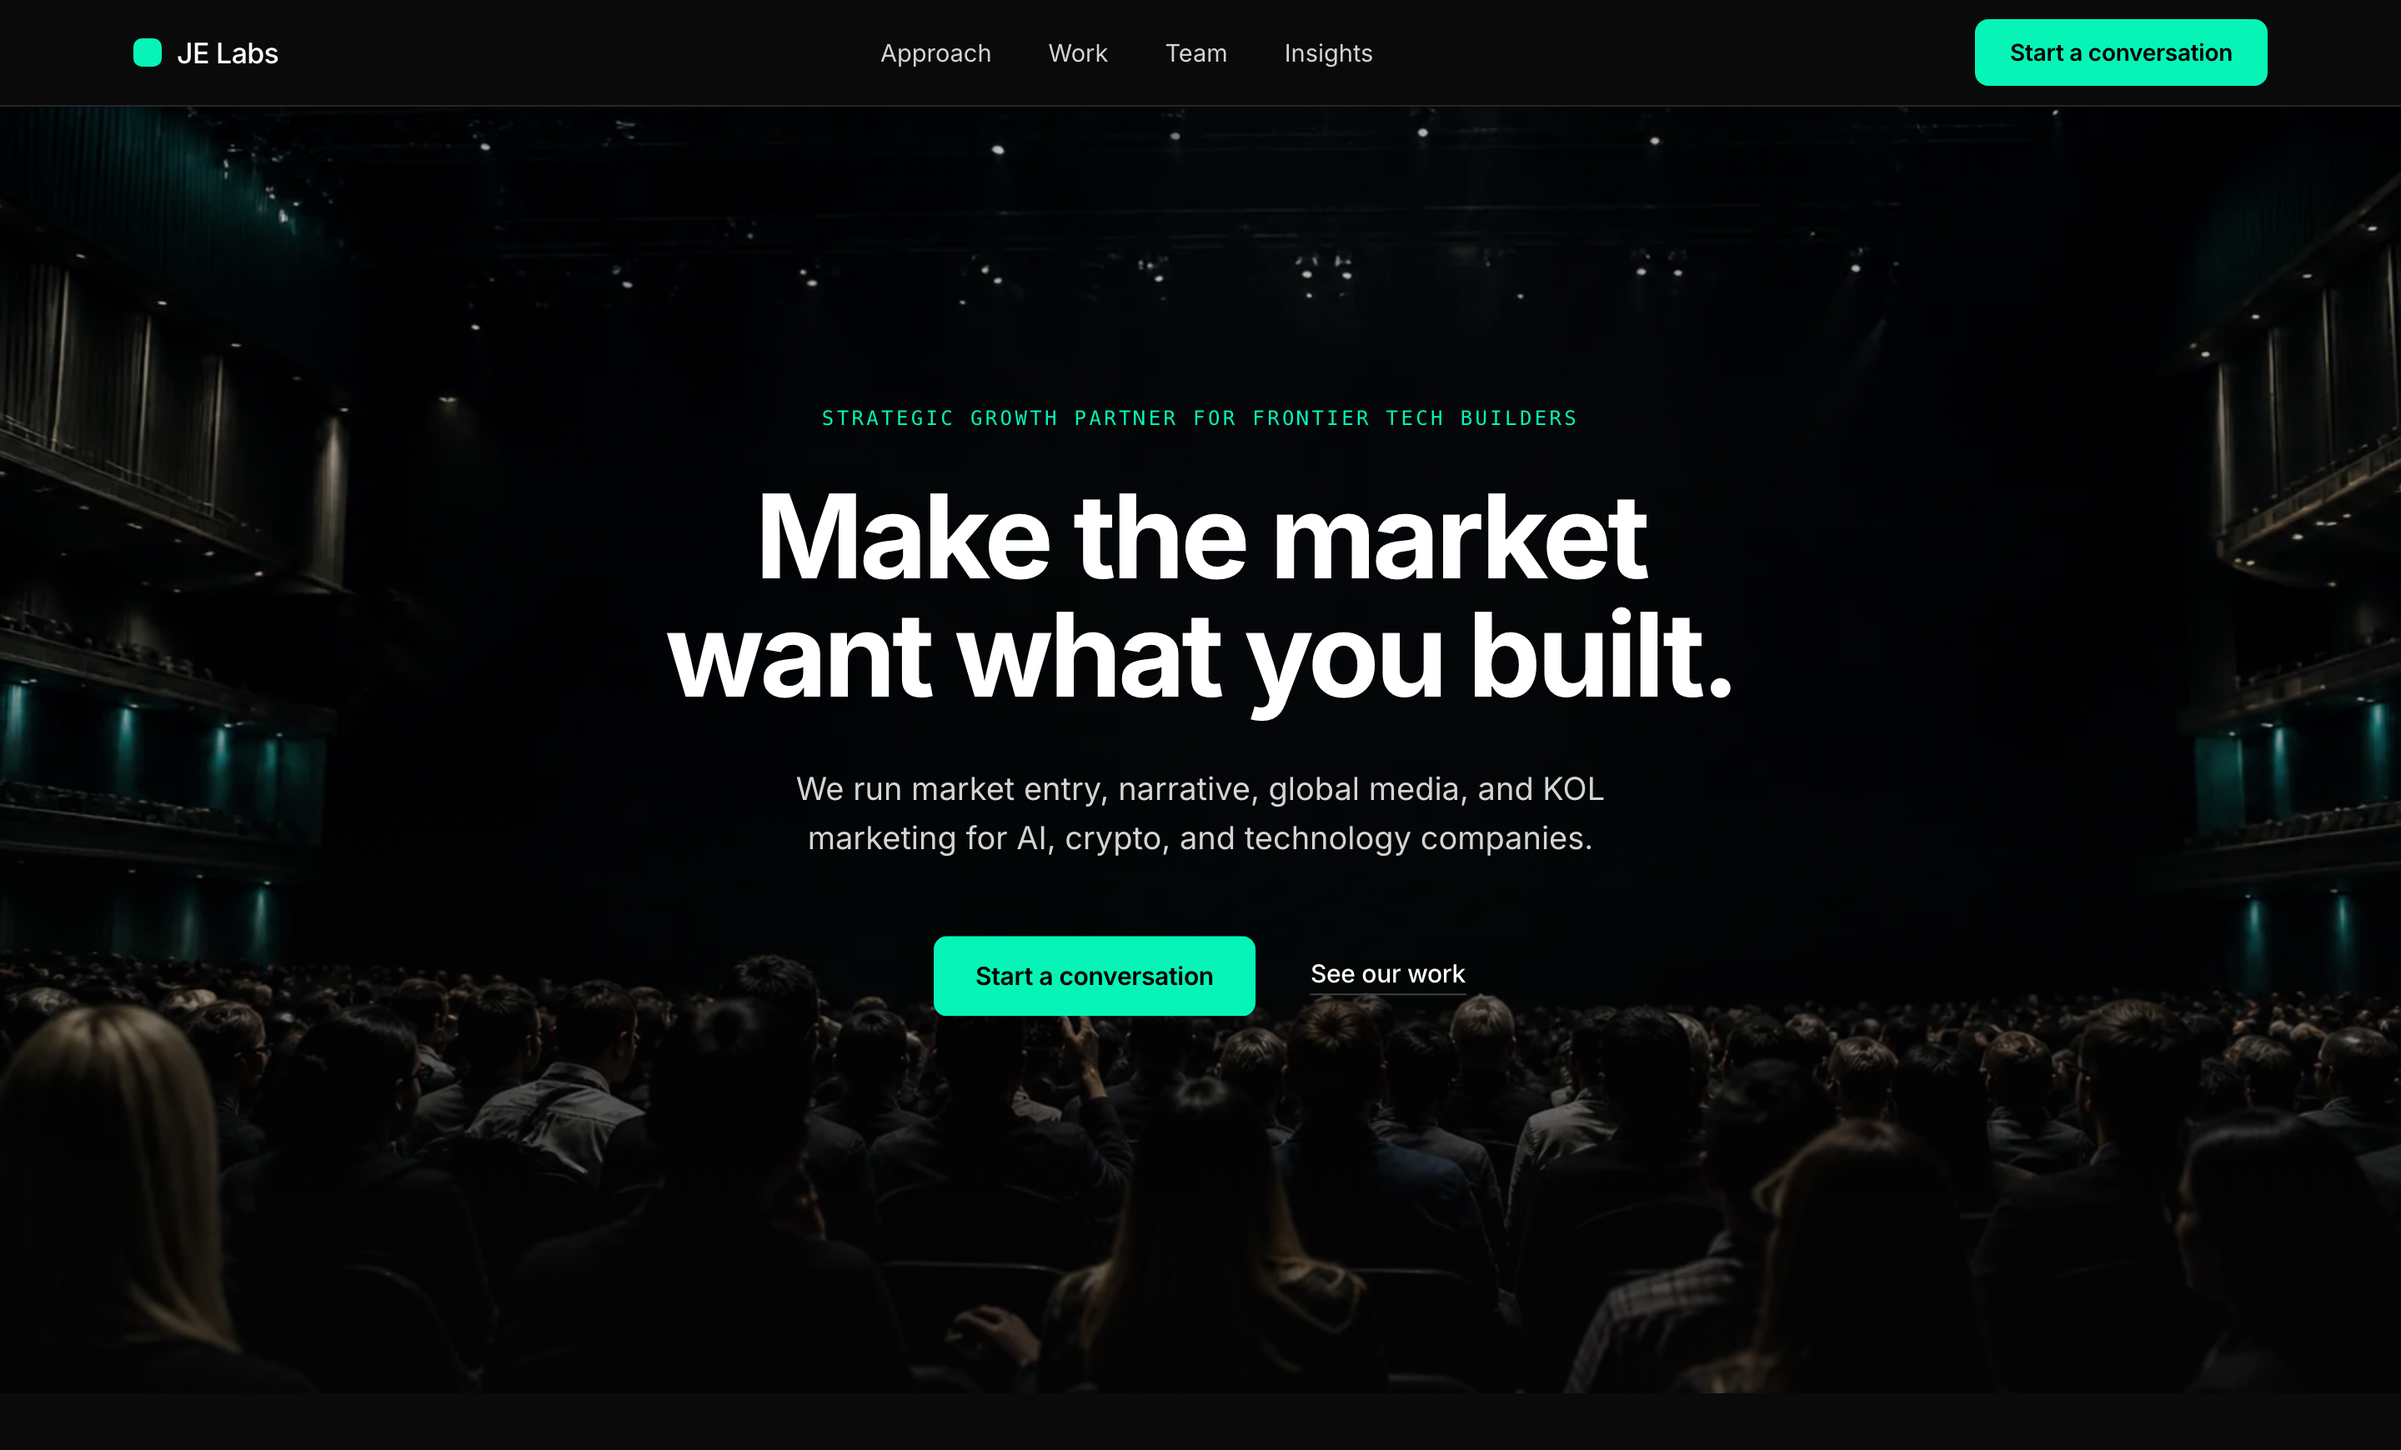
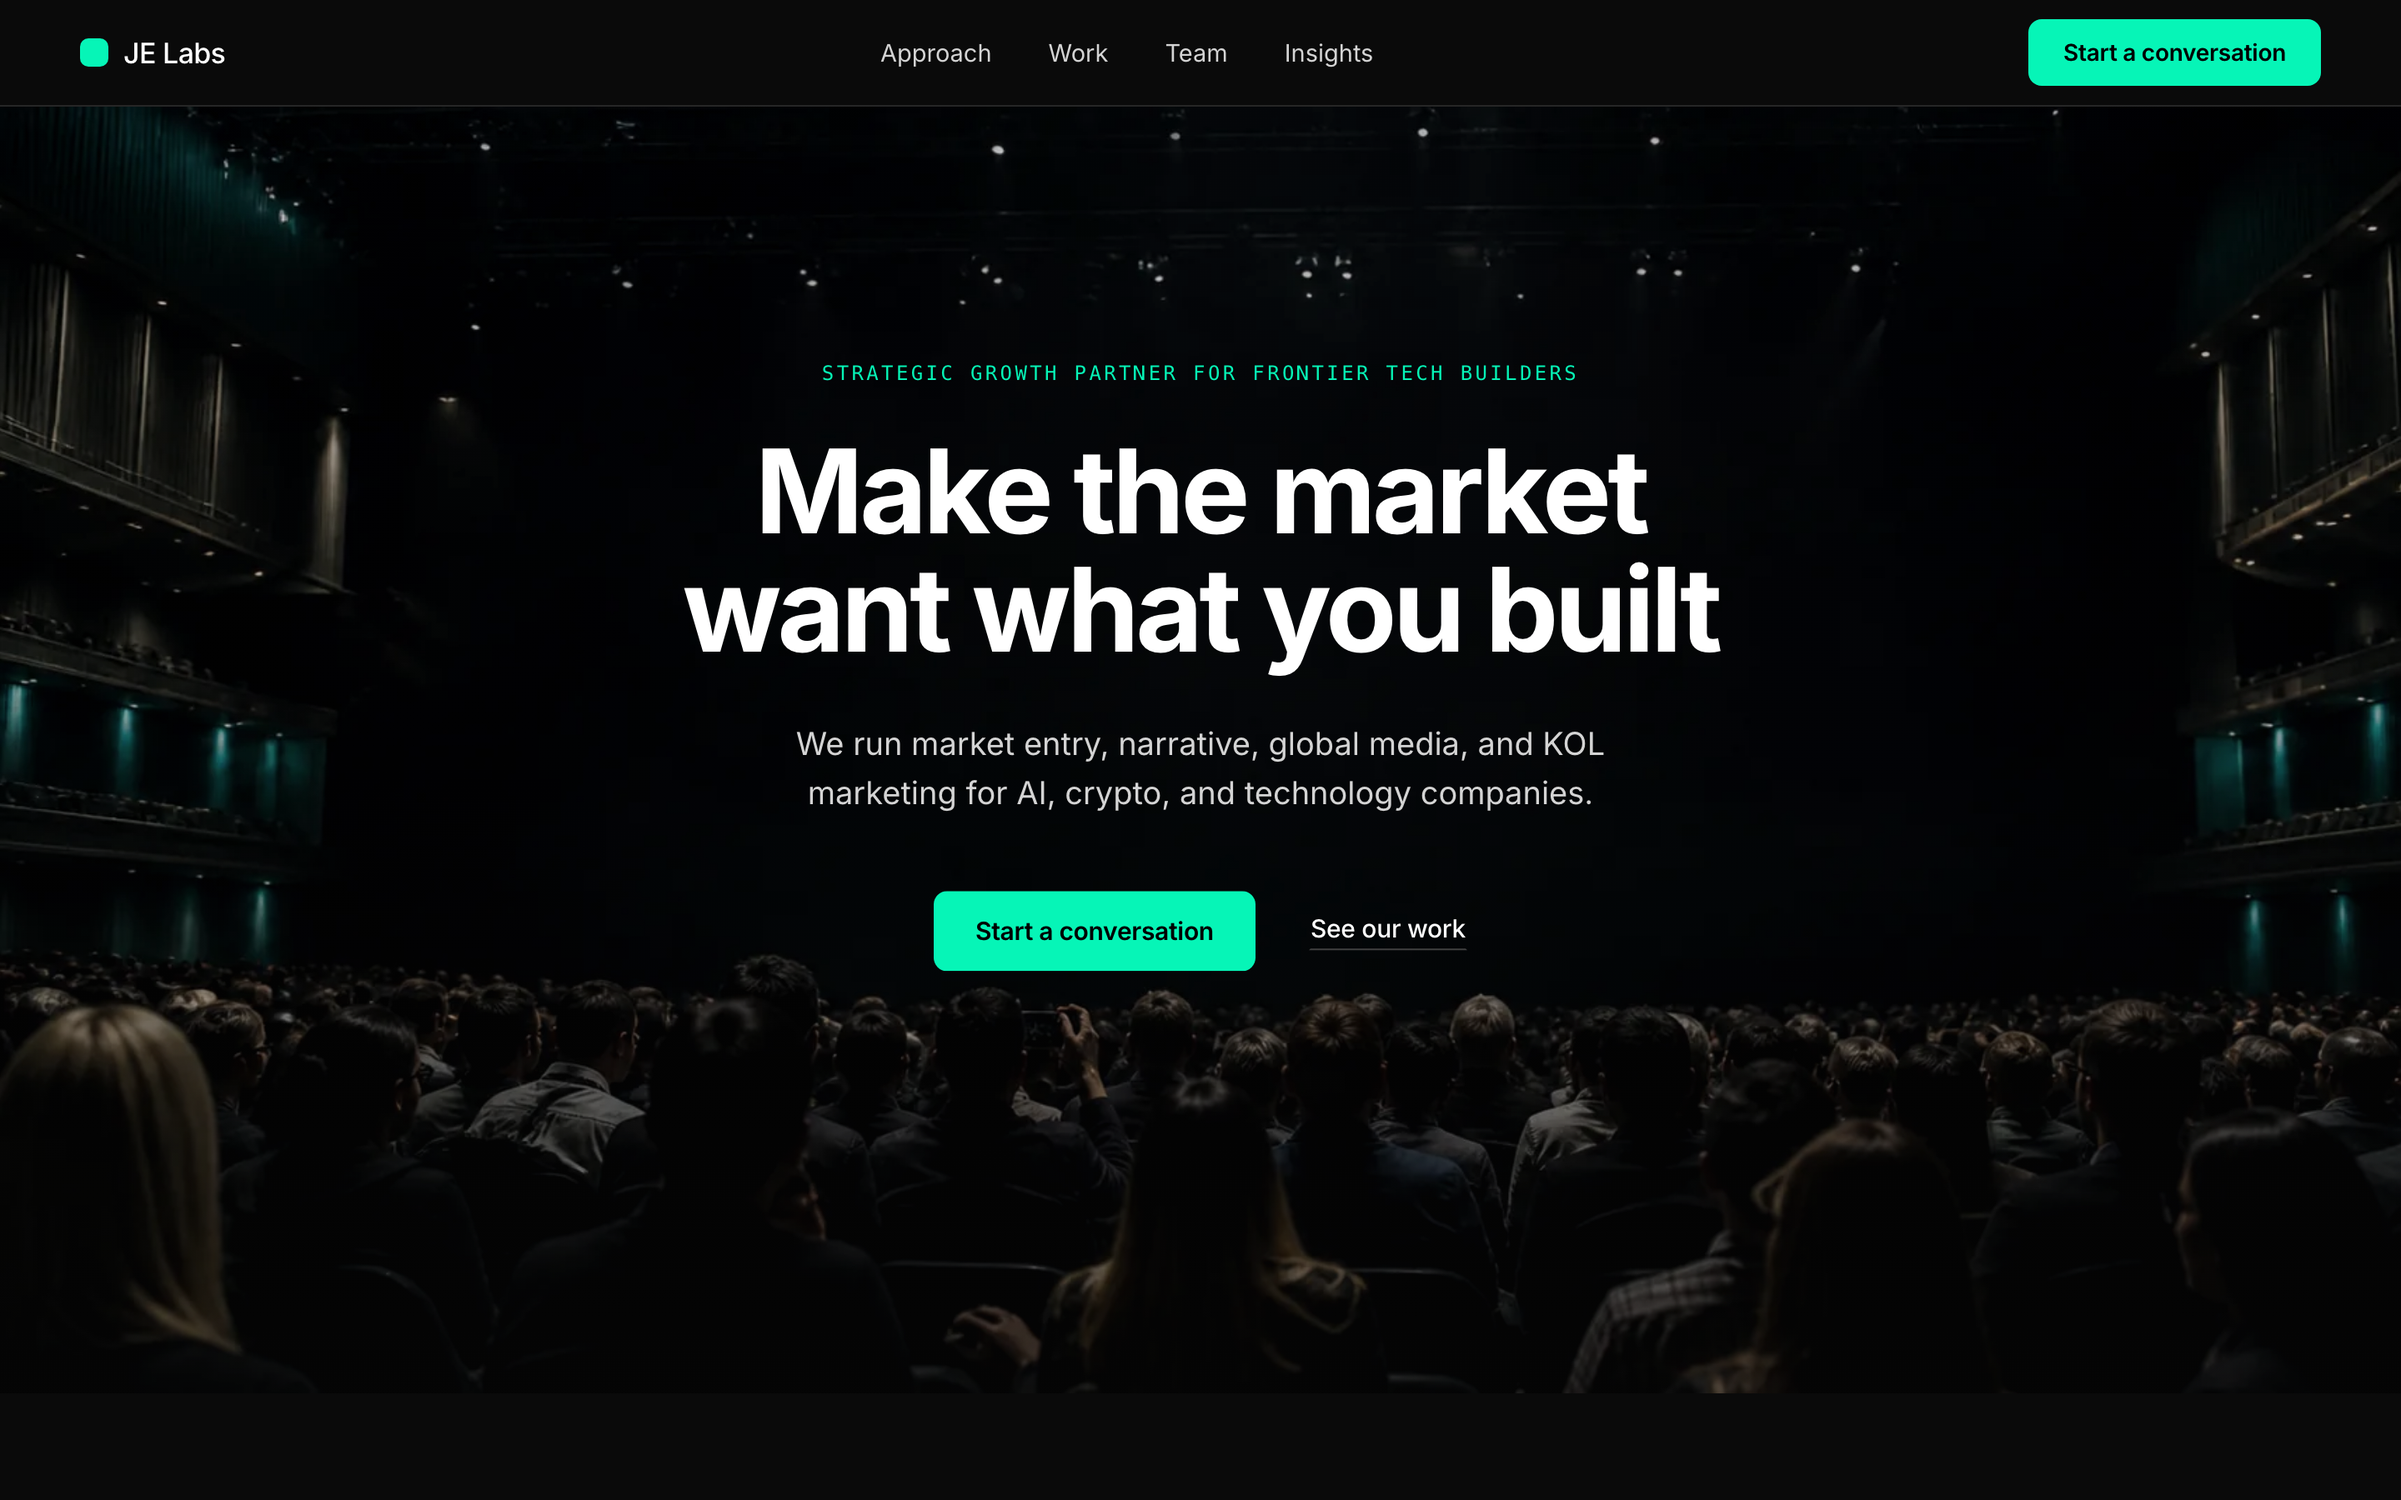
update home

diff --git a/artifacts/homepage-redesign-v2/mock/full-page.html b/artifacts/homepage-redesign-v2/mock/full-page.html
@@ -115,7 +115,7 @@
 #top .copy {
     position: absolute;
     left: 50%;
-    top: 47%;
+    top: 43.5%;
     width: min(920px, calc(100% - 160px));
     text-align: center;
     transform: translate(-50%, -50%);
@@ -153,6 +153,7 @@
       height: calc(100dvh - 64px);
     }
 #top .copy {
+      top: 47%;
       width: calc(100% - 40px);
     }
 #top .copy .d1 {
@@ -276,9 +277,9 @@
     height: 720px;
     margin: 0;
     overflow: hidden;
-    border: 1px solid var(--line);
+    border: 0;
     border-radius: var(--r-surface);
-    background: var(--ink-raise);
+    background: var(--ink);
   }
 #approach .visual-frame {
     position: absolute;
@@ -357,9 +358,9 @@
       height: 420px;
       margin: 28px 0 0;
       overflow: hidden;
-      border: 1px solid var(--line);
+      border: 0;
       border-radius: var(--r-surface);
-      background: var(--ink-raise);
+      background: var(--ink);
     }
 #approach .visual-stage {
       display: none;
@@ -564,6 +565,20 @@
     height: 336px;
     margin: 0 -34px -38px;
     pointer-events: none;
+    -webkit-mask-image: linear-gradient(
+      90deg,
+      #000 0%,
+      #000 74%,
+      rgba(0, 0, 0, 0.9) 80%,
+      transparent 100%
+    );
+    mask-image: linear-gradient(
+      90deg,
+      #000 0%,
+      #000 74%,
+      rgba(0, 0, 0, 0.9) 80%,
+      transparent 100%
+    );
   }
 #work .total-visual img {
     position: relative;
@@ -901,6 +916,16 @@
     justify-content: space-between;
     margin-bottom: 40px;
   }
+#locations .locations-title {
+    max-width: none;
+    margin-top: 18px;
+    white-space: nowrap;
+  }
+@media (max-width: 860px) {
+#locations .locations-title {
+      white-space: normal;
+    }
+}
 #locations .mapbox {
     position: relative;
     width: 1184px;
@@ -2267,7 +2292,7 @@
     <div class="head">
       <div>
         <p class="label">Where we operate</p>
-        <h2 class="d2" style="max-width: 18ch; margin-top: 18px">Four hubs. Active across 15+ markets</h2>
+        <h2 class="d2 locations-title">Four hubs. Active across 15+ markets</h2>
       </div>
     </div>
 

diff --git a/artifacts/homepage-redesign-v2/mock/06-map.html b/artifacts/homepage-redesign-v2/mock/06-map.html
@@ -7,6 +7,16 @@
     justify-content: space-between;
     margin-bottom: 40px;
   }
+  .locations-title {
+    max-width: none;
+    margin-top: 18px;
+    white-space: nowrap;
+  }
+  @media (max-width: 860px) {
+    .locations-title {
+      white-space: normal;
+    }
+  }
   .mapbox {
     position: relative;
     width: 1184px;
@@ -202,7 +212,7 @@
     <div class="head">
       <div>
         <p class="label">Where we operate</p>
-        <h2 class="d2" style="max-width: 18ch; margin-top: 18px">Four hubs. Active across 15+ markets</h2>
+        <h2 class="d2 locations-title">Four hubs. Active across 15+ markets</h2>
       </div>
     </div>
 

diff --git a/artifacts/homepage-redesign-v2/mock/12-approach.html b/artifacts/homepage-redesign-v2/mock/12-approach.html
@@ -81,9 +81,9 @@
     height: 720px;
     margin: 0;
     overflow: hidden;
-    border: 1px solid var(--line);
+    border: 0;
     border-radius: var(--r-surface);
-    background: var(--ink-raise);
+    background: var(--ink);
   }
   .visual-frame {
     position: absolute;
@@ -164,9 +164,9 @@
       height: 420px;
       margin: 28px 0 0;
       overflow: hidden;
-      border: 1px solid var(--line);
+      border: 0;
       border-radius: var(--r-surface);
-      background: var(--ink-raise);
+      background: var(--ink);
     }
     .visual-stage {
       display: none;

diff --git a/artifacts/homepage-redesign-v2/mock/04-work.html b/artifacts/homepage-redesign-v2/mock/04-work.html
@@ -191,6 +191,20 @@
     height: 336px;
     margin: 0 -34px -38px;
     pointer-events: none;
+    -webkit-mask-image: linear-gradient(
+      90deg,
+      #000 0%,
+      #000 74%,
+      rgba(0, 0, 0, 0.9) 80%,
+      transparent 100%
+    );
+    mask-image: linear-gradient(
+      90deg,
+      #000 0%,
+      #000 74%,
+      rgba(0, 0, 0, 0.9) 80%,
+      transparent 100%
+    );
   }
   .total-visual img {
     position: relative;

diff --git a/artifacts/homepage-redesign-v2/mock/02-hero.html b/artifacts/homepage-redesign-v2/mock/02-hero.html
@@ -78,7 +78,7 @@
   .copy {
     position: absolute;
     left: 50%;
-    top: 47%;
+    top: 43.5%;
     width: min(920px, calc(100% - 160px));
     text-align: center;
     transform: translate(-50%, -50%);
@@ -116,6 +116,7 @@
       height: calc(100dvh - 64px);
     }
     .copy {
+      top: 47%;
       width: calc(100% - 40px);
     }
     .copy .d1 {
